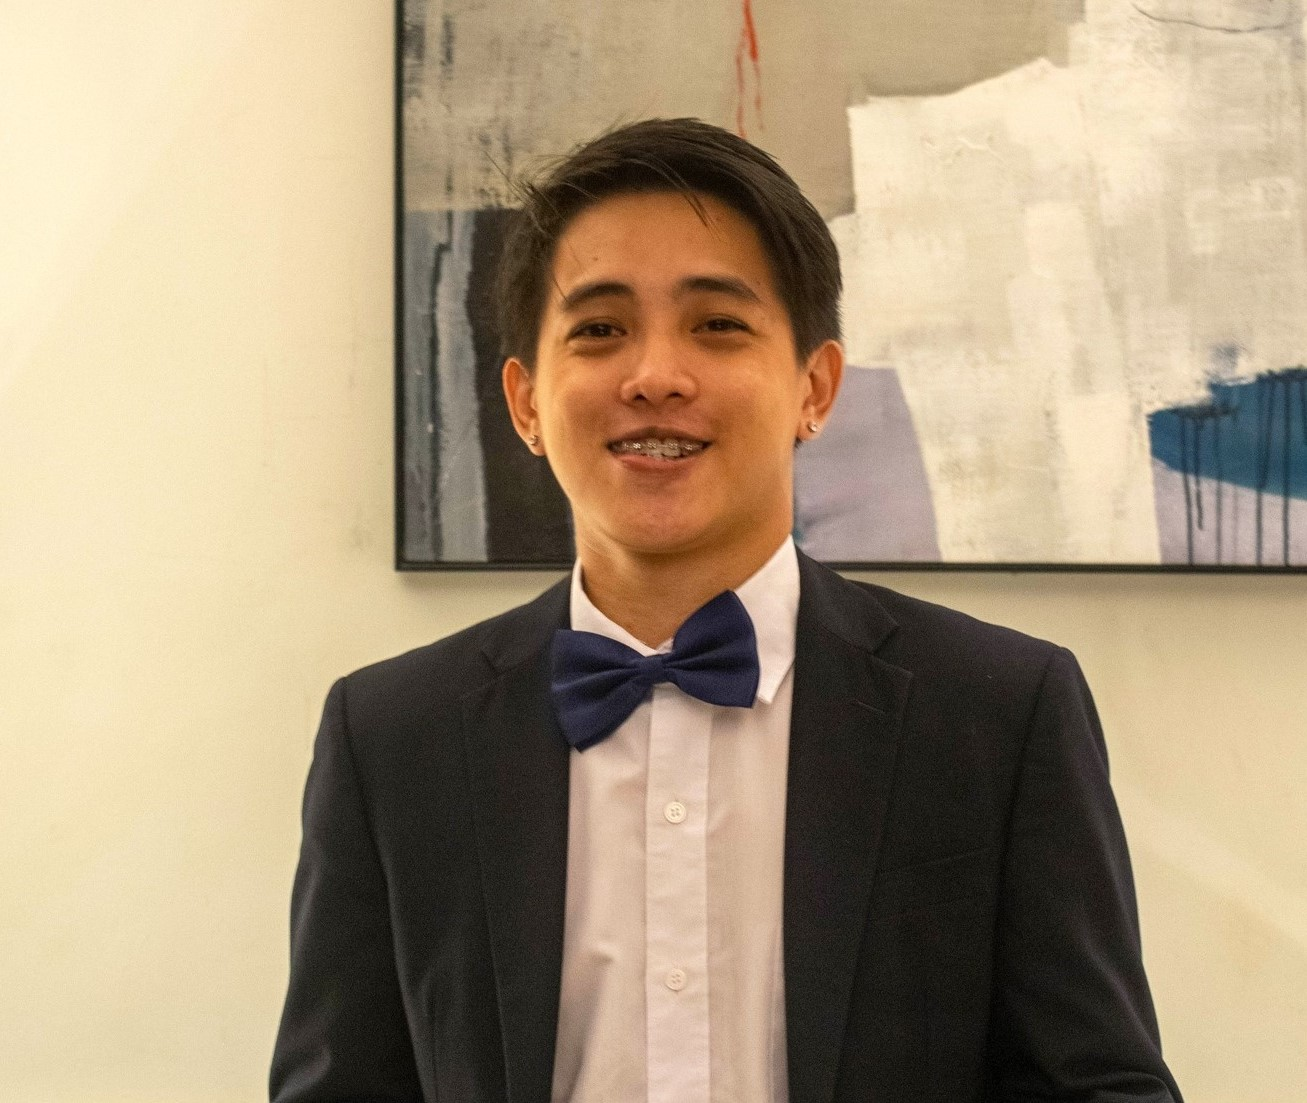
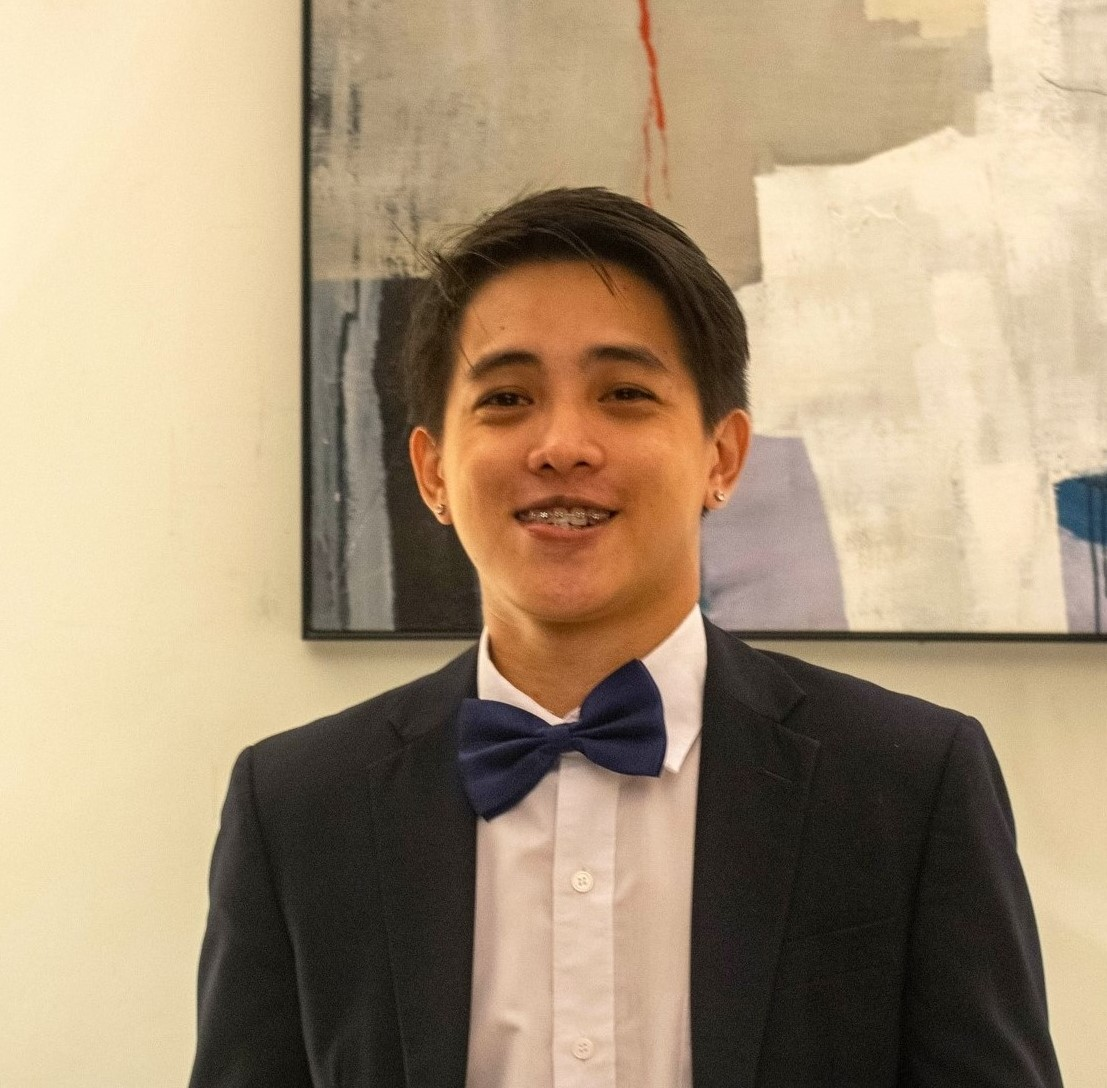
update home image profile pic

diff --git a/src/views/Home.vue b/src/views/Home.vue
@@ -3,6 +3,7 @@ import { ref, onMounted, onBeforeUnmount } from "vue";
 import profileImage from "../assets/profile_pic.jpg";
 import profileImage2 from "../assets/profile_pic2.jpg";
 import profileImage3 from "../assets/profile_pic3.jpg";
+import profileImage4 from "../assets/profile_pic4.jpg";
 
 import About from "./About.vue";
 import Experience from "./Experience.vue";
@@ -110,10 +111,13 @@ onBeforeUnmount(() => {
           <!-- Profile Image -->
           <!-- Profile Hover Gallery -->
           <div class="mb-8 flex justify-center">
-            <figure class="hover-gallery profile-gallery">
+            <figure
+              class="hover-gallery profile-gallery overflow-hidden rounded-full border border-white/15 p-1 shadow-[0_0_50px_rgba(255,255,255,0.08)] transition-all duration-500 hover:border-white/30 hover:shadow-[0_0_70px_rgba(255,255,255,0.15)]"
+            >
               <img :src="profileImage" alt="Marwin Joseph" />
               <img :src="profileImage2" alt="Marwin Joseph" />
               <img :src="profileImage3" alt="Marwin Joseph" />
+              <img :src="profileImage4" alt="Marwin Joseph" />
             </figure>
           </div>
 
